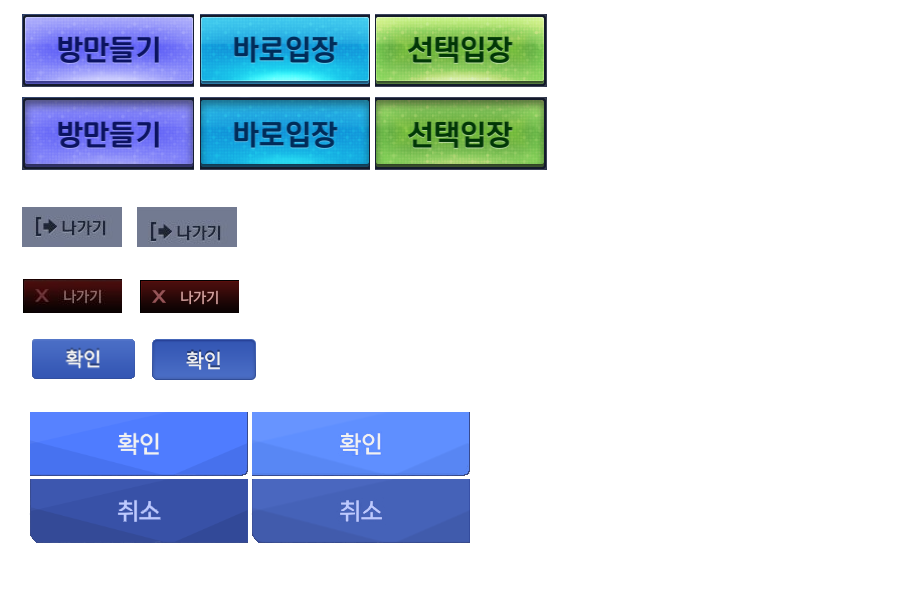
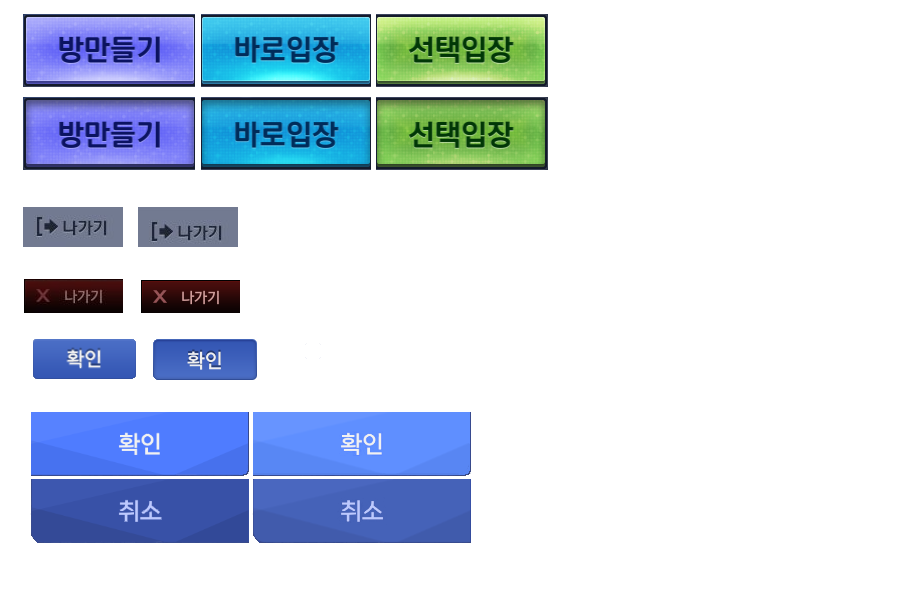
bug...

diff --git a/UNO/LobbyScene.cpp b/UNO/LobbyScene.cpp
@@ -7,13 +7,14 @@
 #include <string>
 
 CLobbyScene::CLobbyScene()
-	: m_backGroundRect({ 0.0f, 0.0f, 1280.0f, 720.0f }), m_createButtonRect({ 387.0f, 231.0f, 559.0f, 304.0f }),
-	m_quickButtonRect({ 559.0f, 231.0f, 729.0f, 304.0f }), m_chooseButtonRect({ 729.0f, 231.0f, 901.0f, 304.0f }),
+	: m_backGroundRect({ 0.0f, 0.0f, 1280.0f, 720.0f }), m_createButtonRect({ 386.0f, 230.0f, 558.0f, 303.0f }),
+	m_quickButtonRect({ 558.0f, 230.0f, 728.0f, 303.0f }), m_chooseButtonRect({ 728.0f, 230.0f, 900.0f, 303.0f }),
 	m_exitButtonRect({ 1160.0f, 665.0f, 1260.0f, 705.f }), m_peopleIconRect({ 980.0f, 85.0f, 1050.0f, 155.0f }),
 	m_myNameTextRect({ 1070.0f, 100.0f, 1250.0f, 200.0f }), m_userListRect({ 920.0f, 270.0f, 1250.0f, 300.0f }),
-	m_exitTextObject({ 421.0f, 250.0f, 858.0f, 405.0f }), m_exitOkButtonRect({ 640.0f, 405.0f, 858.0f, 469.0f }),
-	m_exitNoButtonRect({ 421.0f, 405.0f, 640.0f, 469.0f }),
-	m_pontSize1(30), m_pontSize2(15), m_textHeight(25), m_bOnExit(false)
+	m_exitTextObject({ 421.0f, 250.0f, 858.0f, 405.0f }), m_exitOkButtonRect({ 639.0f, 405.0f, 858.0f, 469.0f }),
+	m_exitNoButtonRect({ 420.0f, 405.0f, 639.0f, 469.0f }), m_createRoomRect({426.0f, 250.0f, 854.0f, 470.f}),
+	m_createOkButtonRect({ 450.0f,300.0f, 553.0f,340.0f }), m_createNoButtonRect({820.0f, 264.0f, 836.0f, 280.0f}),
+	m_pontSize1(30), m_pontSize2(15), m_textHeight(25), m_bOnExit(false), m_bOnCreate(false)
 {
 }
 
@@ -34,6 +35,7 @@ void CLobbyScene::Awake()
 	ID2D1Bitmap* pButtonBitmap = pRM->GetBitmap(bitmap_t::BUTTON);
 	ID2D1Bitmap* pCharcterBitmap = pRM->GetBitmap(bitmap_t::CHARCTER);
 	ID2D1Bitmap* pExitBitmap = pRM->GetBitmap(bitmap_t::EXIT);
+	ID2D1Bitmap* pCreateRoomBitmap = pRM->GetBitmap(bitmap_t::CREATE);
 	CResourceManager::spriteList_t* sprite = pRM->GetSprite();
 
 	m_pMyNameText = new CText(CInformation::GetInstance()->GetName() , m_myNameTextRect, m_pontSize1);
@@ -44,6 +46,8 @@ void CLobbyScene::Awake()
 
 	m_pExitBackGround = new CObject(sprite[CResourceManager::EXIT_BACKGROUND], pExitBitmap, m_backGroundRect);
 	m_pExitTextObject = new CObject(sprite[CResourceManager::EXIT_TEXT_OBJECT], pExitBitmap, m_exitTextObject);
+	
+	m_pCreateRoomObject = new CObject(sprite[CResourceManager::CREATE_ROOM], pCreateRoomBitmap, m_createRoomRect);
 
 	m_button.reserve(LB_BUTTON_MAX);
 	m_button.push_back(new CButton(sprite[CResourceManager::CREATE_BUTTON], pButtonBitmap, m_createButtonRect));
@@ -53,6 +57,9 @@ void CLobbyScene::Awake()
 
 	m_pExitOkButton = new CButton(sprite[CResourceManager::EXIT_BUTTON_OK], pButtonBitmap, m_exitOkButtonRect);
 	m_pExitNoButton = new CButton(sprite[CResourceManager::EXIT_BUTTON_NO], pButtonBitmap, m_exitNoButtonRect);
+
+	m_pCreateOkButton = new CButton(sprite[CResourceManager::CREATE_BUTTON_OK], pButtonBitmap, m_createOkButtonRect);
+	m_pCreateNoButton = new CButton(sprite[CResourceManager::CREATE_BUTTON_NO], pButtonBitmap, m_createNoButtonRect);
 
 	m_pCharacter = new CObject(sprite[CResourceManager::CHARCTER_ICON], pCharcterBitmap, m_peopleIconRect);
 
@@ -78,16 +85,38 @@ void CLobbyScene::Update()
 	
 	m_pExitOkButton->OnButtonUp();
 	m_pExitNoButton->OnButtonUp();
+	m_pCreateOkButton->OnButtonUp();
 
 	if (m_bOnExit)
 	{
-		m_pExitOkButton->OnButton(mouse);
 		if (m_pExitNoButton->OnButton(mouse))
 		{
 			if (key == VK_LBUTTON)
 			{
 				m_pExitNoButton->OnButtonDown();
 				m_bOnExit = false;
+			}
+		}
+		if (m_pExitOkButton->OnButton(mouse))
+		{
+			if (key == VK_LBUTTON)
+			{
+				m_pExitOkButton->OnButtonDown();
+			}
+		}
+	}
+	else if (m_bOnCreate)
+	{
+		if (key == VK_LBUTTON)
+		{
+			if (m_pCreateOkButton->OnButton(mouse))
+			{
+				m_pCreateOkButton->OnButtonDown();
+				CSceneManager::GetInstance()->ChangeScene(eScene::WAITING_SCENE);
+			}
+			if (m_pCreateNoButton->OnButton(mouse))
+			{
+				m_bOnCreate = false;
 			}
 		}
 	}
@@ -102,7 +131,7 @@ void CLobbyScene::Update()
 					switch (i)
 					{
 					case LB_CREATE:
-						CSceneManager::GetInstance()->ChangeScene(eScene::WAITING_SCENE);
+						m_bOnCreate = true;
 						break;
 					case LB_EXIT:
 						m_bOnExit = true;
@@ -119,6 +148,7 @@ void CLobbyScene::Update()
 		CClient::GetInstance()->Send(buffer, 3);
 		pTimer->ResetTimer();
 	}
+	m_userList = CInformation::GetInstance()->GetUserList();
 }
 
 void CLobbyScene::Render(ID2D1HwndRenderTarget* _pRT)
@@ -148,22 +178,31 @@ void CLobbyScene::Render(ID2D1HwndRenderTarget* _pRT)
 		m_pExitNoButton->Render(_pRT, 1.0f);
 		m_pExitOkButton->Render(_pRT, 1.0f);
 	}
-
+	if (m_bOnCreate)
+	{
+		m_pExitBackGround->Render(_pRT, 0.5f);
+		m_pCreateRoomObject->Render(_pRT, 1.0f);
+		m_pCreateOkButton->Render(_pRT, 1.0f);
+		m_pCreateNoButton->Render(_pRT, 1.0f);
+	}
 	_pRT->EndDraw();
 }
 
 void CLobbyScene::Destroy()
 {
 	if (m_pCharacter) { delete m_pCharacter; m_pCharacter = nullptr; }
-	
+	if (m_pExitNoButton) { delete m_pExitNoButton; m_pExitNoButton = nullptr; }
+	if (m_pExitOkButton) { delete m_pExitOkButton; m_pExitOkButton = nullptr; }
 	Button_t::iterator iter = m_button.begin();
 	for (; iter != m_button.end(); iter++)
 	{
 		if (*iter) { delete* iter; *iter = nullptr; }
 	}
 	m_button.clear();
-
+	if (m_pCreateRoomObject) { delete m_pCreateRoomObject; m_pCreateRoomObject = nullptr; }
+	if (m_pExitTextObject) { delete m_pExitTextObject; m_pExitTextObject = nullptr; }
+	if (m_pExitBackGround) { delete m_pExitBackGround; m_pExitBackGround = nullptr; }
 	if (m_pBackGround) { delete m_pBackGround; m_pBackGround = nullptr; }
-	if (m_pMyNameText) { delete m_pMyNameText; m_pMyNameText = nullptr; }
 	if (m_pUserListText) { delete m_pUserListText; m_pUserListText = nullptr; }
+	if (m_pMyNameText) { delete m_pMyNameText; m_pMyNameText = nullptr; }
 }

diff --git a/UNO/GameWnd.cpp b/UNO/GameWnd.cpp
@@ -59,7 +59,8 @@ bool CGameWnd::LoadBitmapFile()
 											L"PNG\\BUTTON.png",
 											L"PNG\\character.png",
 											L"PNG\\waitingRoom.png",
-											L"PNG\\exit.png"};
+											L"PNG\\exit.png",
+											L"PNG\\Create.png"};
 
 	char resourceFileName[][_MAX_PATH] = {	"Resource\\LOBBY1.spr",
 											"Resource\\LOGIN_background1.spr",
@@ -75,7 +76,10 @@ bool CGameWnd::LoadBitmapFile()
 											"Resource\\exit_ok2.spr",
 											"Resource\\exit_no2.spr",
 											"Resource\\exitbackground1.spr",
-											"Resource\\exitTextObject1.spr"};
+											"Resource\\exitTextObject1.spr",
+											"Resource\\CreateRoom1.spr",
+											"Resource\\CreateNoButton2.spr",
+											"Resource\\CreateOkButton2.spr"};
 
 	FILE* pFile;
 	CSprite* tmpSprite;

diff --git a/UNO/LobbyScene.h b/UNO/LobbyScene.h
@@ -34,11 +34,14 @@ private:
 	CObject* m_pCharacter; 
 	CObject* m_pExitBackGround;
 	CObject* m_pExitTextObject;
+	CObject* m_pCreateRoomObject;
 
 	Button_t m_button;
 
 	CButton* m_pExitOkButton;
 	CButton* m_pExitNoButton;
+	CButton* m_pCreateOkButton;
+	CButton* m_pCreateNoButton;
 
 	D2D1_RECT_F m_backGroundRect;
 	D2D1_RECT_F m_createButtonRect;
@@ -51,7 +54,10 @@ private:
 	D2D1_RECT_F m_exitTextObject;
 	D2D1_RECT_F m_exitOkButtonRect;
 	D2D1_RECT_F m_exitNoButtonRect;
-	
+	D2D1_RECT_F m_createRoomRect;
+	D2D1_RECT_F m_createOkButtonRect;
+	D2D1_RECT_F m_createNoButtonRect;
+
 	CText* m_pMyNameText;
 	CText* m_pUserListText;
 
@@ -65,6 +71,7 @@ private:
 	UserList_t* m_userList;
 
 	bool m_bOnExit;
+	bool m_bOnCreate;
 public:
 	CLobbyScene();
 	~CLobbyScene();

diff --git a/UNO/waitingRoomScene.cpp b/UNO/waitingRoomScene.cpp
@@ -19,9 +19,7 @@ void CWaitingRoomScene::Awake()
 
 	m_pBackGround = new CObject(sprite[CResourceManager::WAITING_ROOM], pBitmap, m_backGroundRect);
 
-
-
-	m_pExitButton = new CButton(sprite[CResourceManager::WATTING_ROOM_EXIT], pButtonBitmap, { 1179.0f, 688.0f, 1280.0f, 720.0f });
+	m_pExitButton = new CButton(sprite[CResourceManager::WATTING_ROOM_EXIT], pButtonBitmap, { 1179.0f, 686.0f, 1280.0f, 720.0f });
 }
 
 void CWaitingRoomScene::Start()

diff --git a/UNO/app.cpp b/UNO/app.cpp
@@ -22,7 +22,7 @@ CApp::~CApp()
 
 bool CApp::Initialize()
 {
-	if (!CClient::GetInstance()->Initialize("59.30.46.232", 30002))return false;
+	if (!CClient::GetInstance()->Initialize("192.168.123.13", 30002))return false;
 	if (!CDirect::GetInstance()->Initialize()) return false;
 	if (!CResourceManager::GetInstance()->Initialize()) return false;
 	if (!CInformation::GetInstance()->Initalize()) return false;

diff --git a/UNO/ResourceManager.h b/UNO/ResourceManager.h
@@ -22,6 +22,7 @@ public:
 		CHARCTER,
 		WAITING,
 		EXIT,
+		CREATE,
 		MAX
 	};
 
@@ -42,6 +43,9 @@ public:
 		EXIT_BUTTON_NO,
 		EXIT_BACKGROUND,
 		EXIT_TEXT_OBJECT,
+		CREATE_ROOM,
+		CREATE_BUTTON_NO,
+		CREATE_BUTTON_OK,
 		ICON_MAX
 	};
 
